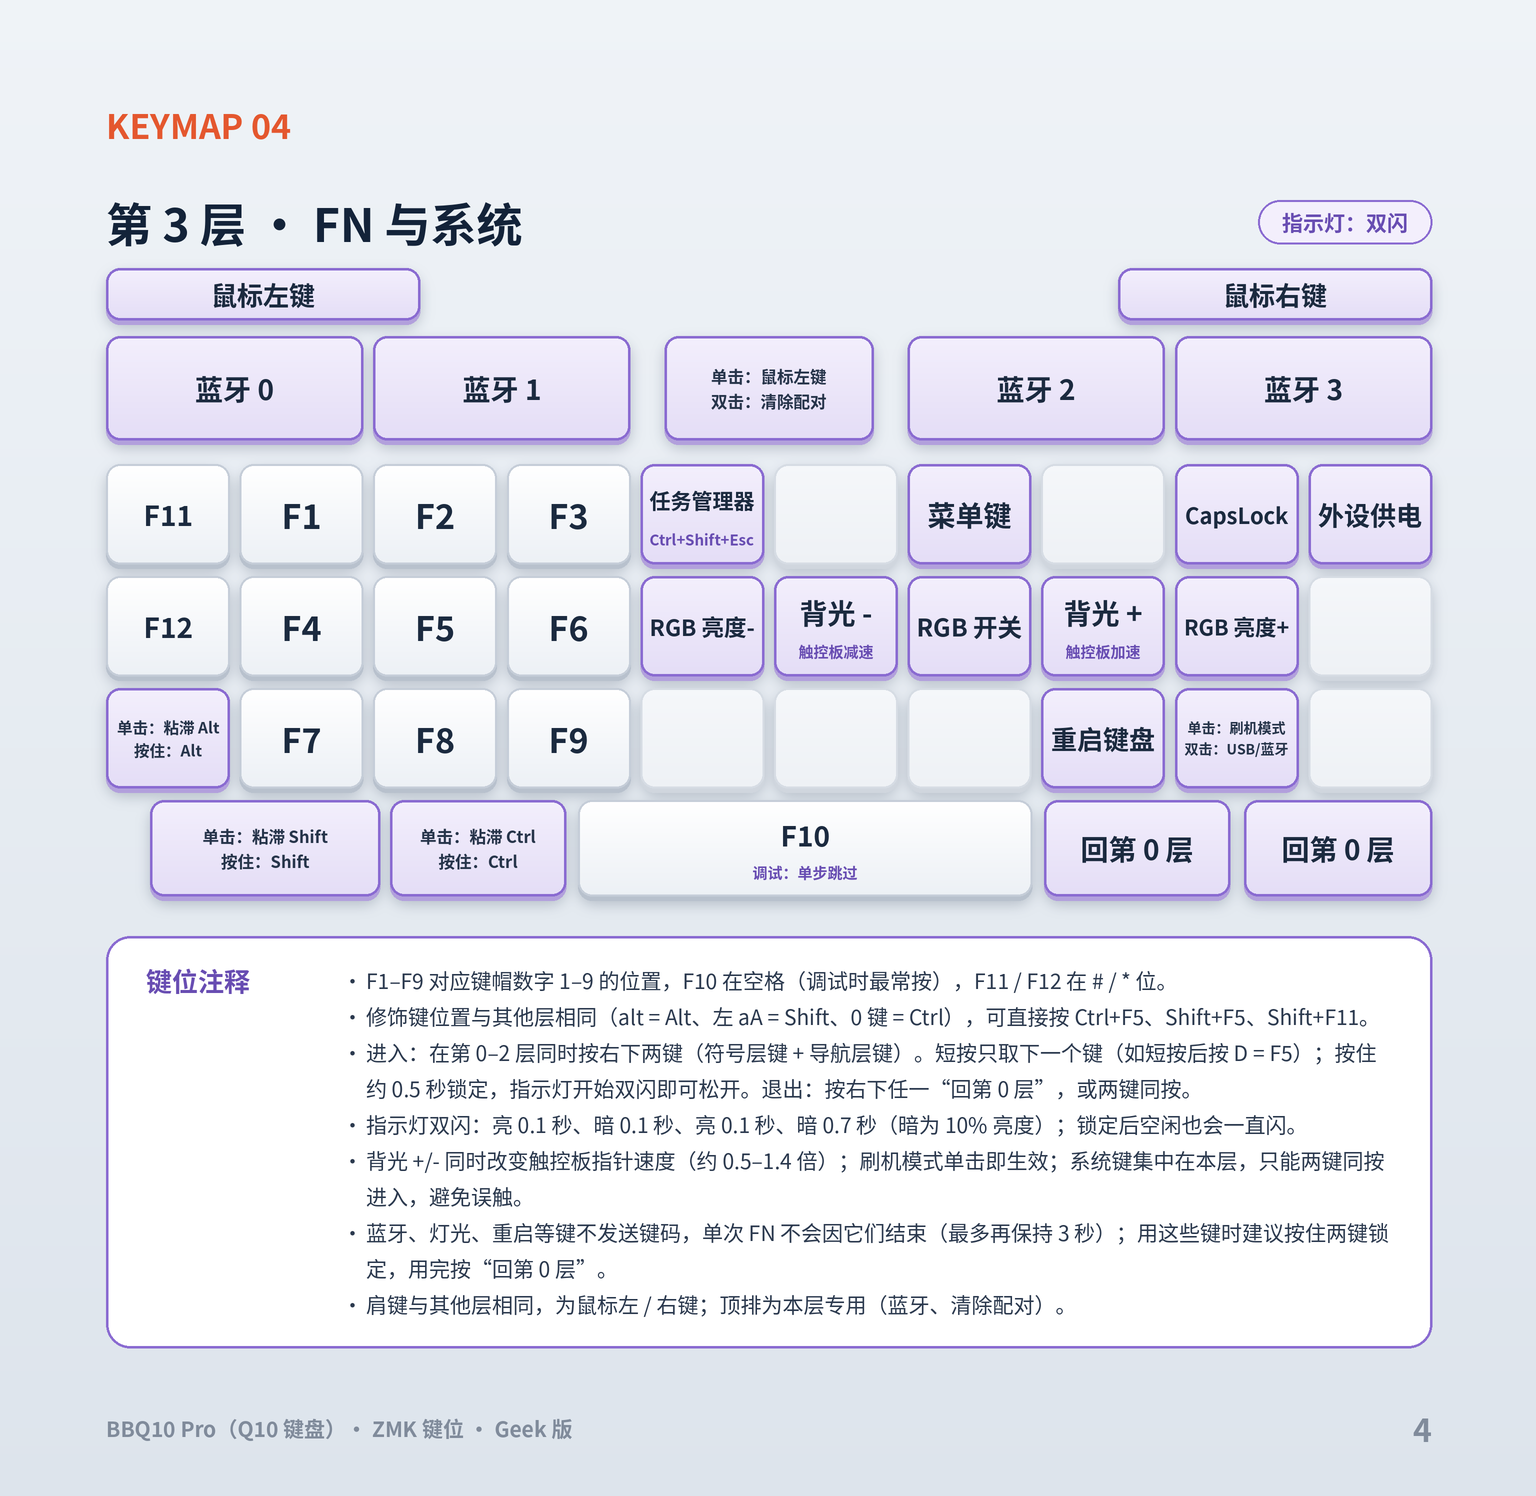
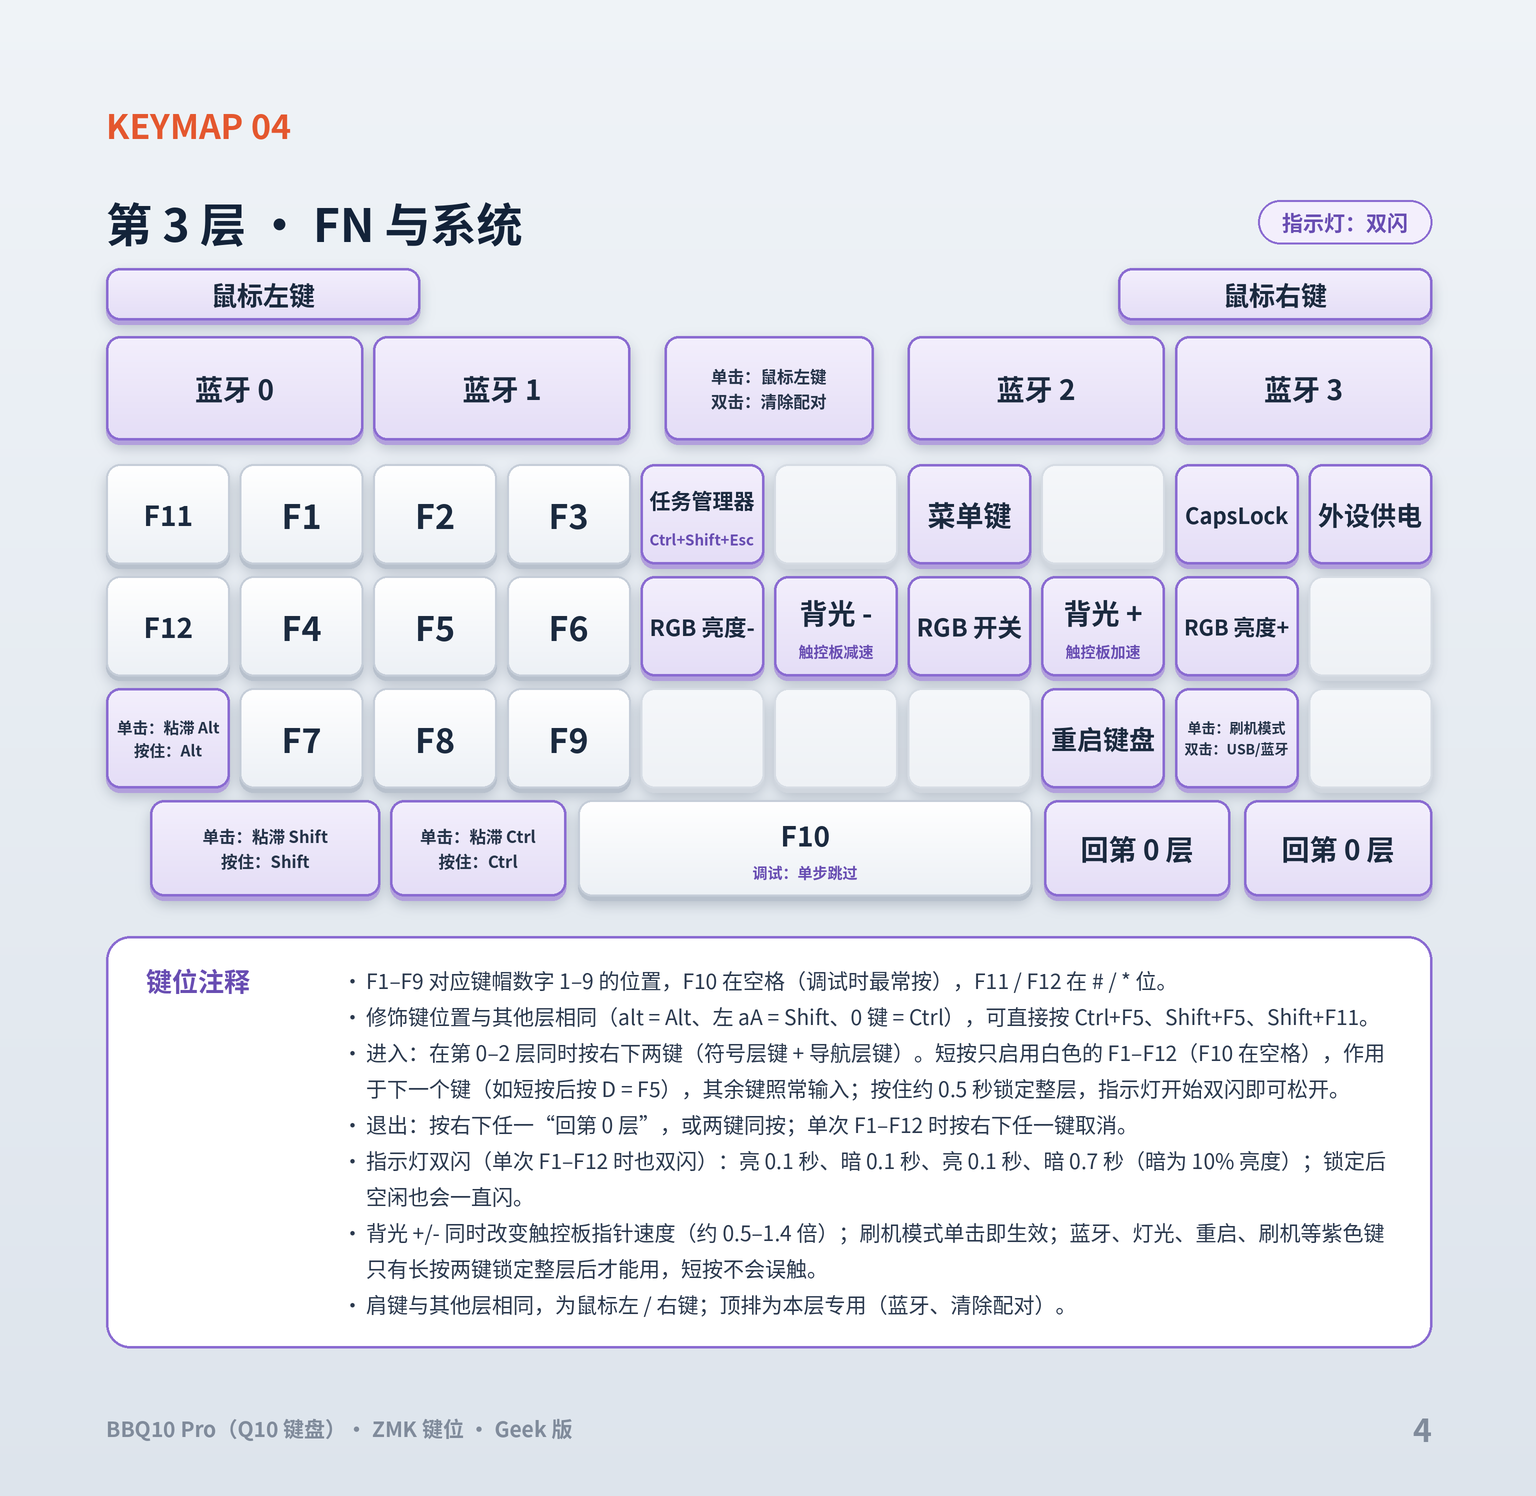
Limit the one-shot FN to F1-F12
A short press of the two FN keys applied the whole FN layer to the next
key, including Bluetooth, lighting, reset and bootloader keys. Those send
no keycode, so they did not end the one-shot, and FN stayed active for up
to 3 s.

- Add layer 4 (FKEYS) with only F1-F12, at the same positions as on FN.
  Every other key falls through to the layer below, and either
  bottom-right key cancels. A short press of the two keys now gives FKEYS
  for the next key only; holding them for 0.5 s still locks the whole FN
  layer
- The combo is also active on FKEYS, so pressing the two keys again re-arms
  the one-shot or, held for 0.5 s, locks FN
- The layer indicator double-flashes on FKEYS as on FN
- Update the layer diagrams

Changed region(s): [[0.2188, 0.6765, 0.9062, 0.861], [0.875, 0.6765, 0.9062, 0.7072]]

diff --git a/config/boards/arm/zitaotech_q10/custom_driver/keyboard_backlight.c b/config/boards/arm/zitaotech_q10/custom_driver/keyboard_backlight.c
@@ -79,9 +79,11 @@ static void blink_work_handler(struct k_work *work) {
     k_work_reschedule(&blink_work, K_MSEC(BLINK_INTERVAL_MS));
 }
 
-/* 层3双闪 */
+/* 层3（FN）和层4（单次 F1–F12）都双闪 */
+static bool is_fn_layer(int layer) { return layer == 3 || layer == 4; }
+
 static void flash_work_handler(struct k_work *work) {
-    if (prev_layer != 3) {
+    if (!is_fn_layer(prev_layer)) {
         set_led_brightness(0);
         return;
     }
@@ -167,7 +169,8 @@ static void polling_work_handler(struct k_work *work) {
             break;
 
         case 3:
-            /* 层3：双闪 */
+        case 4:
+            /* 层3、层4：双闪 */
             flash_step = 0;
             set_led_brightness(BRT_BLINK_HIGH);
             k_work_reschedule(&flash_work, K_MSEC(double_flash_steps_ms[0]));
